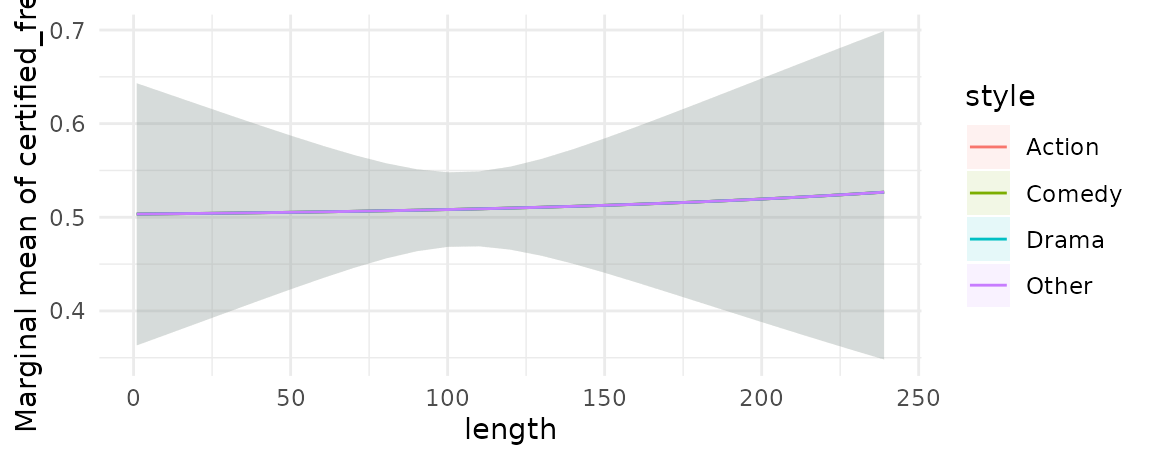
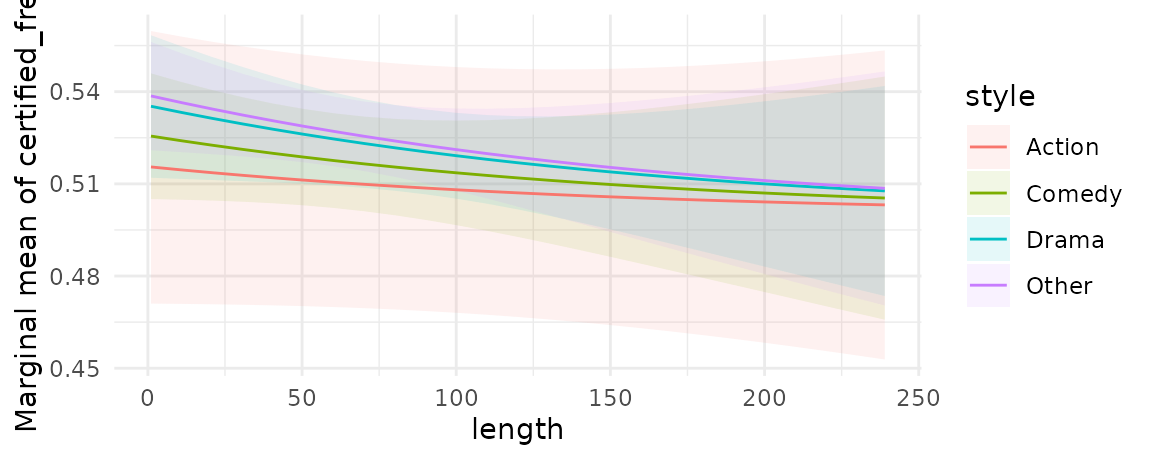
Built site for marginaleffects: 0.0.0.9000@309173f

diff --git a/articles/marginalmeans.html b/articles/marginalmeans.html
@@ -87,8 +87,8 @@
 <div class="sourceCode" id="cb1"><pre class="downlit sourceCode r">
 <code class="sourceCode R"><span class="va">mod</span> <span class="op">&lt;-</span> <span class="fu"><a href="https://rdrr.io/r/stats/lm.html">lm</a></span><span class="op">(</span><span class="va">mpg</span> <span class="op">~</span> <span class="va">hp</span> <span class="op">+</span> <span class="fu"><a href="https://rdrr.io/r/base/factor.html">factor</a></span><span class="op">(</span><span class="va">cyl</span><span class="op">)</span>, data <span class="op">=</span> <span class="va">mtcars</span><span class="op">)</span>
 <span class="fu"><a href="../reference/marginalmeans.html">marginalmeans</a></span><span class="op">(</span><span class="va">mod</span><span class="op">)</span>
-<span class="co">#&gt;   rowid     type predicted std.error conf.low conf.high       hp cyl</span>
-<span class="co">#&gt; 1     1 response  25.12392  1.368888 22.31988  27.92796 146.6875   8</span></code></pre></div>
+<span class="co">#&gt;       type predicted std.error conf.low conf.high       hp cyl</span>
+<span class="co">#&gt; 1 response  25.12392  1.368888 22.31988  27.92796 146.6875   8</span></code></pre></div>
 <p>Unless otherwise instructed, <code>marginalmeans</code> calculates regression-adjusted predicted values for a unit with all regressors set at their means or modes. In most cases, this is too limiting, and researchers will want to specify a grid of “typical” values over which to compute marginal means.</p>
 <div id="typical-marginal-means" class="section level1">
 <h1 class="hasAnchor">
@@ -100,22 +100,22 @@
 <p>The <code>variables</code> argument is a handy shortcut to create grids of predictors. Each of the levels of factor/logical/character variables listed in the <code>variables</code> argument will be displayed. For numeric variables, <code>marginalmeans</code> will compute marginal means at Tukey’s 5 summary numbers. All other variables will be set at their means or modes.</p>
 <div class="sourceCode" id="cb2"><pre class="downlit sourceCode r">
 <code class="sourceCode R"><span class="fu"><a href="../reference/marginalmeans.html">marginalmeans</a></span><span class="op">(</span><span class="va">mod</span>, variables <span class="op">=</span> <span class="fu"><a href="https://rdrr.io/r/base/c.html">c</a></span><span class="op">(</span><span class="st">"cyl"</span>, <span class="st">"hp"</span><span class="op">)</span><span class="op">)</span>
-<span class="co">#&gt;    rowid     type predicted std.error conf.low conf.high cyl  hp</span>
-<span class="co">#&gt; 1      8 response  25.69334 1.1343184 23.36980  28.01689   4 123</span>
-<span class="co">#&gt; 2     11 response  24.32313 1.7749372 20.68733  27.95892   4 180</span>
-<span class="co">#&gt; 3     14 response  20.59711 4.0024363 12.39849  28.79573   4 335</span>
-<span class="co">#&gt; 4      2 response  27.40010 1.0595843 25.22964  29.57056   4  52</span>
-<span class="co">#&gt; 5      5 response  26.34239 0.9707174 24.35397  28.33081   4  96</span>
-<span class="co">#&gt; 6      7 response  25.69334 1.1343184 23.36980  28.01689   6 123</span>
-<span class="co">#&gt; 7     10 response  24.32313 1.7749372 20.68733  27.95892   6 180</span>
-<span class="co">#&gt; 8     13 response  20.59711 4.0024363 12.39849  28.79573   6 335</span>
-<span class="co">#&gt; 9      1 response  27.40010 1.0595843 25.22964  29.57056   6  52</span>
-<span class="co">#&gt; 10     4 response  26.34239 0.9707174 24.35397  28.33081   6  96</span>
-<span class="co">#&gt; 11     9 response  25.69334 1.1343184 23.36980  28.01689   8 123</span>
-<span class="co">#&gt; 12    12 response  24.32313 1.7749372 20.68733  27.95892   8 180</span>
-<span class="co">#&gt; 13    15 response  20.59711 4.0024363 12.39849  28.79573   8 335</span>
-<span class="co">#&gt; 14     3 response  27.40010 1.0595843 25.22964  29.57056   8  52</span>
-<span class="co">#&gt; 15     6 response  26.34239 0.9707174 24.35397  28.33081   8  96</span></code></pre></div>
+<span class="co">#&gt;        type predicted std.error  conf.low conf.high cyl  hp</span>
+<span class="co">#&gt; 1  response  21.43244 1.6083883 18.137810  24.72708   6  52</span>
+<span class="co">#&gt; 2  response  27.40010 1.0595843 25.229639  29.57056   4  52</span>
+<span class="co">#&gt; 3  response  18.87925 2.5641372 13.626851  24.13165   8  52</span>
+<span class="co">#&gt; 4  response  20.37474 1.2562453 17.801433  22.94804   6  96</span>
+<span class="co">#&gt; 5  response  26.34239 0.9707174 24.353966  28.33081   4  96</span>
+<span class="co">#&gt; 6  response  17.82154 1.9364843 13.854831  21.78825   8  96</span>
+<span class="co">#&gt; 7  response  19.72569 1.1892191 17.289682  22.16169   6 123</span>
+<span class="co">#&gt; 8  response  25.69334 1.1343184 23.369796  28.01689   4 123</span>
+<span class="co">#&gt; 9  response  17.17249 1.5721502 13.952087  20.39289   8 123</span>
+<span class="co">#&gt; 10 response  18.35547 1.4848895 15.313815  21.39713   6 180</span>
+<span class="co">#&gt; 11 response  24.32313 1.7749372 20.687334  27.95892   4 180</span>
+<span class="co">#&gt; 12 response  15.80228 0.9537705 13.848567  17.75599   8 180</span>
+<span class="co">#&gt; 13 response  14.62945 3.4865450  7.487590  21.77132   6 335</span>
+<span class="co">#&gt; 14 response  20.59711 4.0024363 12.398490  28.79573   4 335</span>
+<span class="co">#&gt; 15 response  12.07626 2.1126445  7.748702  16.40381   8 335</span></code></pre></div>
 <p>The <code>data.frame</code> produced by <code>marginalmeans</code> is “tidy”, which makes it easy to manipulate with standard commands:</p>
 <div class="sourceCode" id="cb3"><pre class="downlit sourceCode r">
 <code class="sourceCode R"><span class="kw"><a href="https://rdrr.io/r/base/library.html">library</a></span><span class="op">(</span><span class="va"><a href="http://haozhu233.github.io/kableExtra/">kableExtra</a></span><span class="op">)</span>
@@ -146,10 +146,10 @@ cyl
 hp
 </th>
 <th style="text-align:right;">
-4
+6
 </th>
 <th style="text-align:right;">
-6
+4
 </th>
 <th style="text-align:right;">
 8
@@ -159,58 +159,16 @@ hp
 <tbody>
 <tr>
 <td style="text-align:right;">
-123
-</td>
-<td style="text-align:right;">
-25.69334
-</td>
-<td style="text-align:right;">
-25.69334
-</td>
-<td style="text-align:right;">
-25.69334
-</td>
-</tr>
-<tr>
-<td style="text-align:right;">
-180
-</td>
-<td style="text-align:right;">
-24.32313
-</td>
-<td style="text-align:right;">
-24.32313
-</td>
-<td style="text-align:right;">
-24.32313
-</td>
-</tr>
-<tr>
-<td style="text-align:right;">
-335
-</td>
-<td style="text-align:right;">
-20.59711
-</td>
-<td style="text-align:right;">
-20.59711
-</td>
-<td style="text-align:right;">
-20.59711
-</td>
-</tr>
-<tr>
-<td style="text-align:right;">
 52
 </td>
 <td style="text-align:right;">
-27.40010
+21.43244
 </td>
 <td style="text-align:right;">
 27.40010
 </td>
 <td style="text-align:right;">
-27.40010
+18.87925
 </td>
 </tr>
 <tr>
@@ -218,13 +176,55 @@ hp
 96
 </td>
 <td style="text-align:right;">
-26.34239
+20.37474
 </td>
 <td style="text-align:right;">
 26.34239
 </td>
 <td style="text-align:right;">
-26.34239
+17.82154
+</td>
+</tr>
+<tr>
+<td style="text-align:right;">
+123
+</td>
+<td style="text-align:right;">
+19.72569
+</td>
+<td style="text-align:right;">
+25.69334
+</td>
+<td style="text-align:right;">
+17.17249
+</td>
+</tr>
+<tr>
+<td style="text-align:right;">
+180
+</td>
+<td style="text-align:right;">
+18.35547
+</td>
+<td style="text-align:right;">
+24.32313
+</td>
+<td style="text-align:right;">
+15.80228
+</td>
+</tr>
+<tr>
+<td style="text-align:right;">
+335
+</td>
+<td style="text-align:right;">
+14.62945
+</td>
+<td style="text-align:right;">
+20.59711
+</td>
+<td style="text-align:right;">
+12.07626
 </td>
 </tr>
 </tbody>
@@ -244,10 +244,10 @@ hp
 <p>We can also use this <code>typical</code> function in a <code>marginalmeans</code> call (omitting the <code>model</code> argument):</p>
 <div class="sourceCode" id="cb5"><pre class="downlit sourceCode r">
 <code class="sourceCode R"><span class="fu"><a href="../reference/marginalmeans.html">marginalmeans</a></span><span class="op">(</span><span class="va">mod</span>, newdata <span class="op">=</span> <span class="fu"><a href="../reference/typical.html">typical</a></span><span class="op">(</span>cyl <span class="op">=</span> <span class="fu"><a href="https://rdrr.io/r/base/c.html">c</a></span><span class="op">(</span><span class="fl">4</span>, <span class="fl">6</span>, <span class="fl">8</span><span class="op">)</span><span class="op">)</span><span class="op">)</span>
-<span class="co">#&gt;   rowid     type predicted std.error conf.low conf.high       hp cyl</span>
-<span class="co">#&gt; 1     1 response  25.12392  1.368888 22.31988  27.92796 146.6875   4</span>
-<span class="co">#&gt; 2     2 response  25.12392  1.368888 22.31988  27.92796 146.6875   6</span>
-<span class="co">#&gt; 3     3 response  25.12392  1.368888 22.31988  27.92796 146.6875   8</span></code></pre></div>
+<span class="co">#&gt;       type predicted std.error conf.low conf.high       hp cyl</span>
+<span class="co">#&gt; 1 response  25.12392  1.368888 22.31988  27.92796 146.6875   4</span>
+<span class="co">#&gt; 2 response  19.15627  1.247190 16.60151  21.71102 146.6875   6</span>
+<span class="co">#&gt; 3 response  16.60307  1.278754 13.98366  19.22248 146.6875   8</span></code></pre></div>
 </div>
 </div>
 <div id="plot-conditional-marginal-means" class="section level1">
@@ -265,7 +265,8 @@ hp
            certified_fresh <span class="op">=</span> <span class="va">rating</span> <span class="op">&gt;=</span> <span class="fl">8</span><span class="op">)</span> |&gt;
     <span class="fu"><a href="https://rdrr.io/r/stats/filter.html">filter</a></span><span class="op">(</span><span class="va">length</span> <span class="op">&lt;</span> <span class="fl">240</span><span class="op">)</span>
 
-<span class="va">mod</span> <span class="op">&lt;-</span> <span class="fu"><a href="https://rdrr.io/r/stats/glm.html">glm</a></span><span class="op">(</span><span class="va">certified_fresh</span> <span class="op">~</span> <span class="va">length</span> <span class="op">*</span> <span class="va">style</span>, data <span class="op">=</span> <span class="va">dat</span>, family <span class="op">=</span> <span class="va">binomial</span><span class="op">)</span></code></pre></div>
+<span class="va">mod</span> <span class="op">&lt;-</span> <span class="fu"><a href="https://rdrr.io/r/stats/glm.html">glm</a></span><span class="op">(</span><span class="va">certified_fresh</span> <span class="op">~</span> <span class="va">length</span> <span class="op">*</span> <span class="va">style</span>, data <span class="op">=</span> <span class="va">dat</span>, family <span class="op">=</span> <span class="va">binomial</span><span class="op">)</span>
+<span class="va">mod</span> <span class="op">&lt;-</span> <span class="fu"><a href="https://rdrr.io/r/stats/glm.html">glm</a></span><span class="op">(</span><span class="va">certified_fresh</span> <span class="op">~</span> <span class="va">length</span> <span class="op">+</span> <span class="va">style</span>, data <span class="op">=</span> <span class="va">dat</span>, family <span class="op">=</span> <span class="va">binomial</span><span class="op">)</span></code></pre></div>
 <p>We can plot the marginal means of the response, conditional on the <code>length</code> variable using the <code>plot_cmm</code> function:</p>
 <div class="sourceCode" id="cb7"><pre class="downlit sourceCode r">
 <code class="sourceCode R"><span class="fu"><a href="../reference/plot_cmm.html">plot_cmm</a></span><span class="op">(</span><span class="va">mod</span>, condition <span class="op">=</span> <span class="st">"length"</span><span class="op">)</span></code></pre></div>

diff --git a/reference/pad_factors.html b/reference/pad_factors.html
@@ -1,0 +1,157 @@
+<!-- Generated by pkgdown: do not edit by hand -->
+<!DOCTYPE html>
+<html lang="en">
+  <head>
+  <meta charset="utf-8">
+<meta http-equiv="X-UA-Compatible" content="IE=edge">
+<meta name="viewport" content="width=device-width, initial-scale=1.0">
+
+<title>Create a data.frame with all factor levels — pad_factors • marginaleffects</title>
+
+
+<!-- jquery -->
+<script src="https://cdnjs.cloudflare.com/ajax/libs/jquery/3.4.1/jquery.min.js" integrity="sha256-CSXorXvZcTkaix6Yvo6HppcZGetbYMGWSFlBw8HfCJo=" crossorigin="anonymous"></script>
+<!-- Bootstrap -->
+<link href="https://cdnjs.cloudflare.com/ajax/libs/bootswatch/3.4.0/readable/bootstrap.min.css" rel="stylesheet" crossorigin="anonymous" />
+
+
+<script src="https://cdnjs.cloudflare.com/ajax/libs/twitter-bootstrap/3.4.1/js/bootstrap.min.js" integrity="sha256-nuL8/2cJ5NDSSwnKD8VqreErSWHtnEP9E7AySL+1ev4=" crossorigin="anonymous"></script>
+
+<!-- bootstrap-toc -->
+<link rel="stylesheet" href="../bootstrap-toc.css">
+<script src="../bootstrap-toc.js"></script>
+
+<!-- Font Awesome icons -->
+<link rel="stylesheet" href="https://cdnjs.cloudflare.com/ajax/libs/font-awesome/5.12.1/css/all.min.css" integrity="sha256-mmgLkCYLUQbXn0B1SRqzHar6dCnv9oZFPEC1g1cwlkk=" crossorigin="anonymous" />
+<link rel="stylesheet" href="https://cdnjs.cloudflare.com/ajax/libs/font-awesome/5.12.1/css/v4-shims.min.css" integrity="sha256-wZjR52fzng1pJHwx4aV2AO3yyTOXrcDW7jBpJtTwVxw=" crossorigin="anonymous" />
+
+<!-- clipboard.js -->
+<script src="https://cdnjs.cloudflare.com/ajax/libs/clipboard.js/2.0.6/clipboard.min.js" integrity="sha256-inc5kl9MA1hkeYUt+EC3BhlIgyp/2jDIyBLS6k3UxPI=" crossorigin="anonymous"></script>
+
+<!-- headroom.js -->
+<script src="https://cdnjs.cloudflare.com/ajax/libs/headroom/0.11.0/headroom.min.js" integrity="sha256-AsUX4SJE1+yuDu5+mAVzJbuYNPHj/WroHuZ8Ir/CkE0=" crossorigin="anonymous"></script>
+<script src="https://cdnjs.cloudflare.com/ajax/libs/headroom/0.11.0/jQuery.headroom.min.js" integrity="sha256-ZX/yNShbjqsohH1k95liqY9Gd8uOiE1S4vZc+9KQ1K4=" crossorigin="anonymous"></script>
+
+<!-- pkgdown -->
+<link href="../pkgdown.css" rel="stylesheet">
+<script src="../pkgdown.js"></script>
+
+
+
+
+<meta property="og:title" content="Create a data.frame with all factor levels — pad_factors" />
+<meta property="og:description" content="model.matrix and get_predicted break when newdata includes a factor
+variable, but not all levels are present in the data. This is bad for us
+because we often want to get predictions with one (or few) rows, where some
+factor levels are inevitably missing." />
+
+
+
+
+<!-- mathjax -->
+<script src="https://cdnjs.cloudflare.com/ajax/libs/mathjax/2.7.5/MathJax.js" integrity="sha256-nvJJv9wWKEm88qvoQl9ekL2J+k/RWIsaSScxxlsrv8k=" crossorigin="anonymous"></script>
+<script src="https://cdnjs.cloudflare.com/ajax/libs/mathjax/2.7.5/config/TeX-AMS-MML_HTMLorMML.js" integrity="sha256-84DKXVJXs0/F8OTMzX4UR909+jtl4G7SPypPavF+GfA=" crossorigin="anonymous"></script>
+
+<!--[if lt IE 9]>
+<script src="https://oss.maxcdn.com/html5shiv/3.7.3/html5shiv.min.js"></script>
+<script src="https://oss.maxcdn.com/respond/1.4.2/respond.min.js"></script>
+<![endif]-->
+
+
+
+  </head>
+
+  <body data-spy="scroll" data-target="#toc">
+    <div class="container template-reference-topic">
+      <header>
+      <div class="navbar navbar-default navbar-fixed-top" role="navigation">
+  <div class="container">
+    <div class="navbar-header">
+      <button type="button" class="navbar-toggle collapsed" data-toggle="collapse" data-target="#navbar" aria-expanded="false">
+        <span class="sr-only">Toggle navigation</span>
+        <span class="icon-bar"></span>
+        <span class="icon-bar"></span>
+        <span class="icon-bar"></span>
+      </button>
+      <span class="navbar-brand">
+        <a class="navbar-link" href="../index.html">marginaleffects</a>
+        <span class="version label label-default" data-toggle="tooltip" data-placement="bottom" title="Released version">0.0.0.9000</span>
+      </span>
+    </div>
+
+    <div id="navbar" class="navbar-collapse collapse">
+      <ul class="nav navbar-nav">
+        <li>
+  <a href="../articles/mfx.html">Marginal effects</a>
+</li>
+<li>
+  <a href="../articles/marginalmeans.html">Marginal means</a>
+</li>
+<li>
+  <a href="../articles/contrasts.html">Contrasts</a>
+</li>
+      </ul>
+      <ul class="nav navbar-nav navbar-right">
+        <li>
+  <a href="../reference/index.html">Reference</a>
+</li>
+<li>
+  <a href="../news/index.html">Changelog</a>
+</li>
+      </ul>
+      
+    </div><!--/.nav-collapse -->
+  </div><!--/.container -->
+</div><!--/.navbar -->
+
+      
+
+      </header>
+
+<div class="row">
+  <div class="col-md-9 contents">
+    <div class="page-header">
+    <h1>Create a data.frame with all factor levels</h1>
+    <small class="dont-index">Source: <a href='https://github.com/vincentarelbundock/marginaleffects/blob/master/R/pad_factors.R'><code>R/pad_factors.R</code></a></small>
+    <div class="hidden name"><code>pad_factors.Rd</code></div>
+    </div>
+
+    <div class="ref-description">
+    <p><code>model.matrix</code> and <code>get_predicted</code> break when <code>newdata</code> includes a factor
+variable, but not all levels are present in the data. This is bad for us
+because we often want to get predictions with one (or few) rows, where some
+factor levels are inevitably missing.</p>
+    </div>
+
+    <pre class="usage"><span class='fu'>pad_factors</span><span class='op'>(</span><span class='va'>x</span><span class='op'>)</span></pre>
+
+
+
+  </div>
+  <div class="col-md-3 hidden-xs hidden-sm" id="pkgdown-sidebar">
+    <nav id="toc" data-toggle="toc" class="sticky-top">
+      <h2 data-toc-skip>Contents</h2>
+    </nav>
+  </div>
+</div>
+
+
+      <footer>
+      <div class="copyright">
+  <p>Developed by Vincent Arel-Bundock.</p>
+</div>
+
+<div class="pkgdown">
+  <p>Site built with <a href="https://pkgdown.r-lib.org/">pkgdown</a> 1.6.1.</p>
+</div>
+
+      </footer>
+   </div>
+
+  
+
+
+  </body>
+</html>
+
+

diff --git a/articles/mfx.html b/articles/mfx.html
@@ -254,11 +254,11 @@
     <span class="fu"><a href="https://dplyr.tidyverse.org/reference/mutate.html">mutate</a></span><span class="op">(</span>truth <span class="op">=</span> <span class="fl">1</span> <span class="op">+</span> <span class="fl">4</span> <span class="op">*</span> <span class="va">x</span><span class="op">)</span>  |&gt;
     <span class="fu"><a href="https://dplyr.tidyverse.org/reference/select.html">select</a></span><span class="op">(</span><span class="va">dydx</span>, <span class="va">truth</span><span class="op">)</span>
 <span class="co">#&gt;        dydx truth</span>
-<span class="co">#&gt; 1 -7.004702    -7</span>
-<span class="co">#&gt; 2 -3.000651    -3</span>
-<span class="co">#&gt; 3  1.003400     1</span>
-<span class="co">#&gt; 4  5.007451     5</span>
-<span class="co">#&gt; 5  9.011502     9</span></code></pre></div>
+<span class="co">#&gt; 1 -6.998702    -7</span>
+<span class="co">#&gt; 2 -2.998267    -3</span>
+<span class="co">#&gt; 3  1.002168     1</span>
+<span class="co">#&gt; 4  5.002603     5</span>
+<span class="co">#&gt; 5  9.003038     9</span></code></pre></div>
 <p>We can also plot the result with the <code>plot_cme</code> function (see section below):</p>
 <div class="sourceCode" id="cb12"><pre class="downlit sourceCode r">
 <code class="sourceCode R"><span class="fu"><a href="../reference/plot_cme.html">plot_cme</a></span><span class="op">(</span><span class="va">mod</span>, effect <span class="op">=</span> <span class="st">"x"</span>, condition <span class="op">=</span> <span class="st">"x"</span><span class="op">)</span></code></pre></div>
